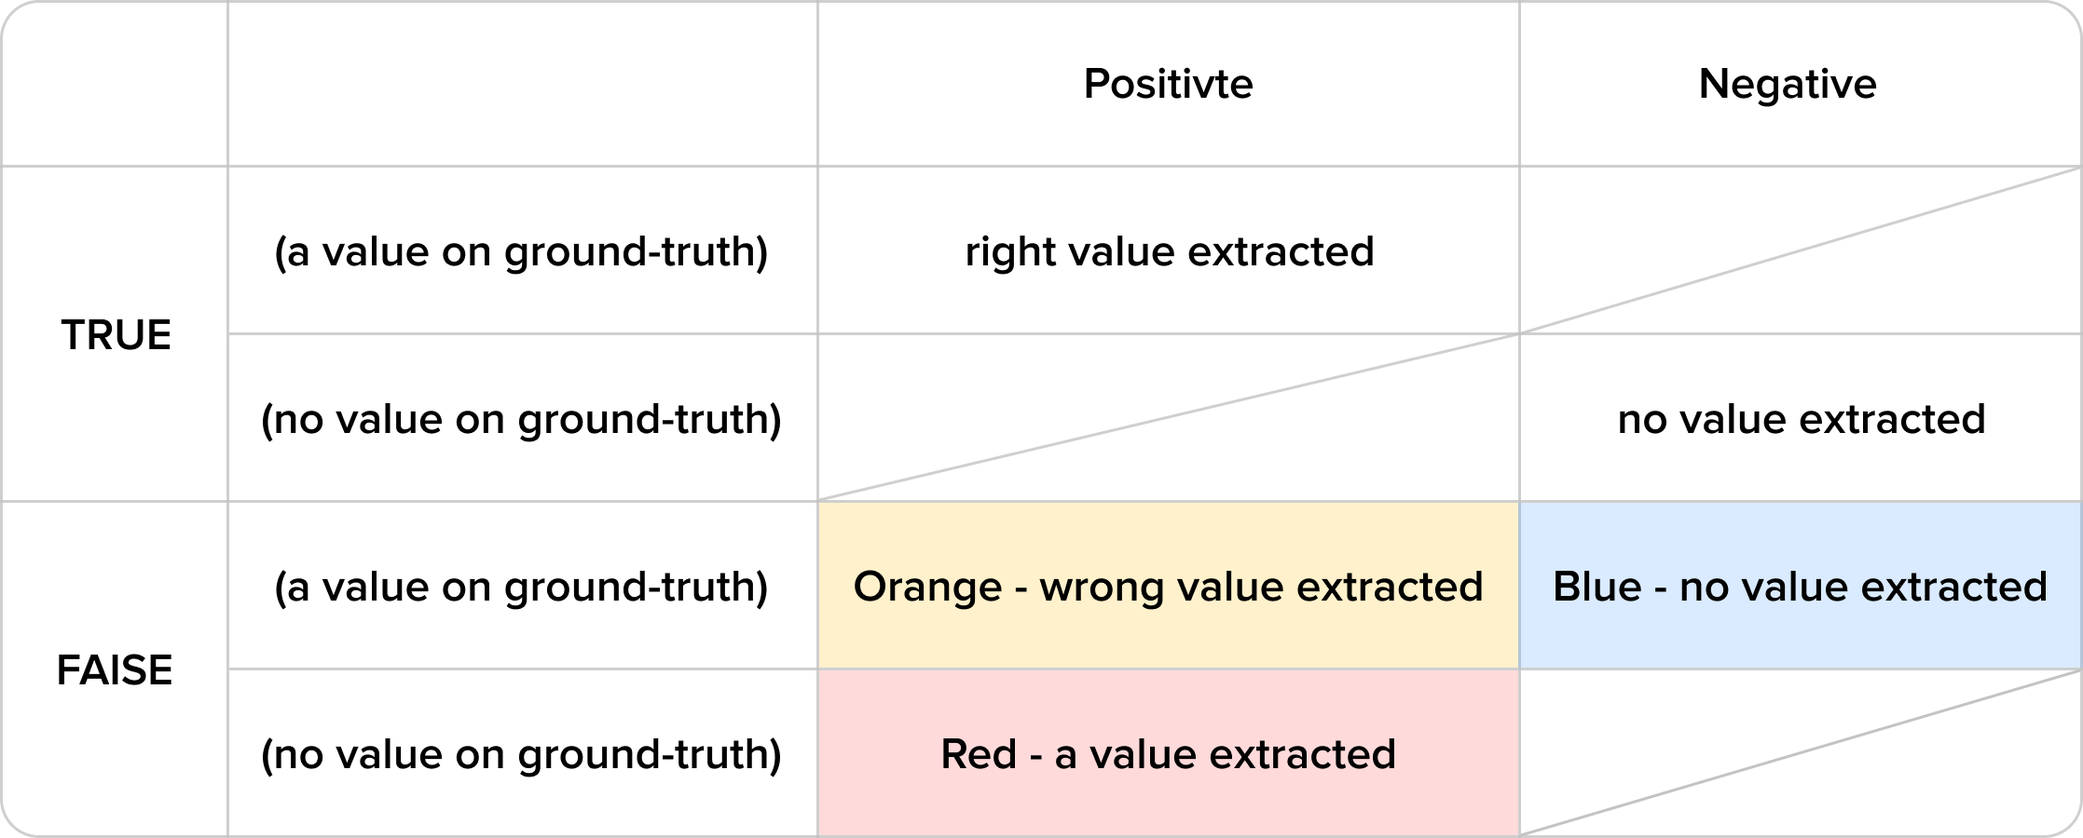
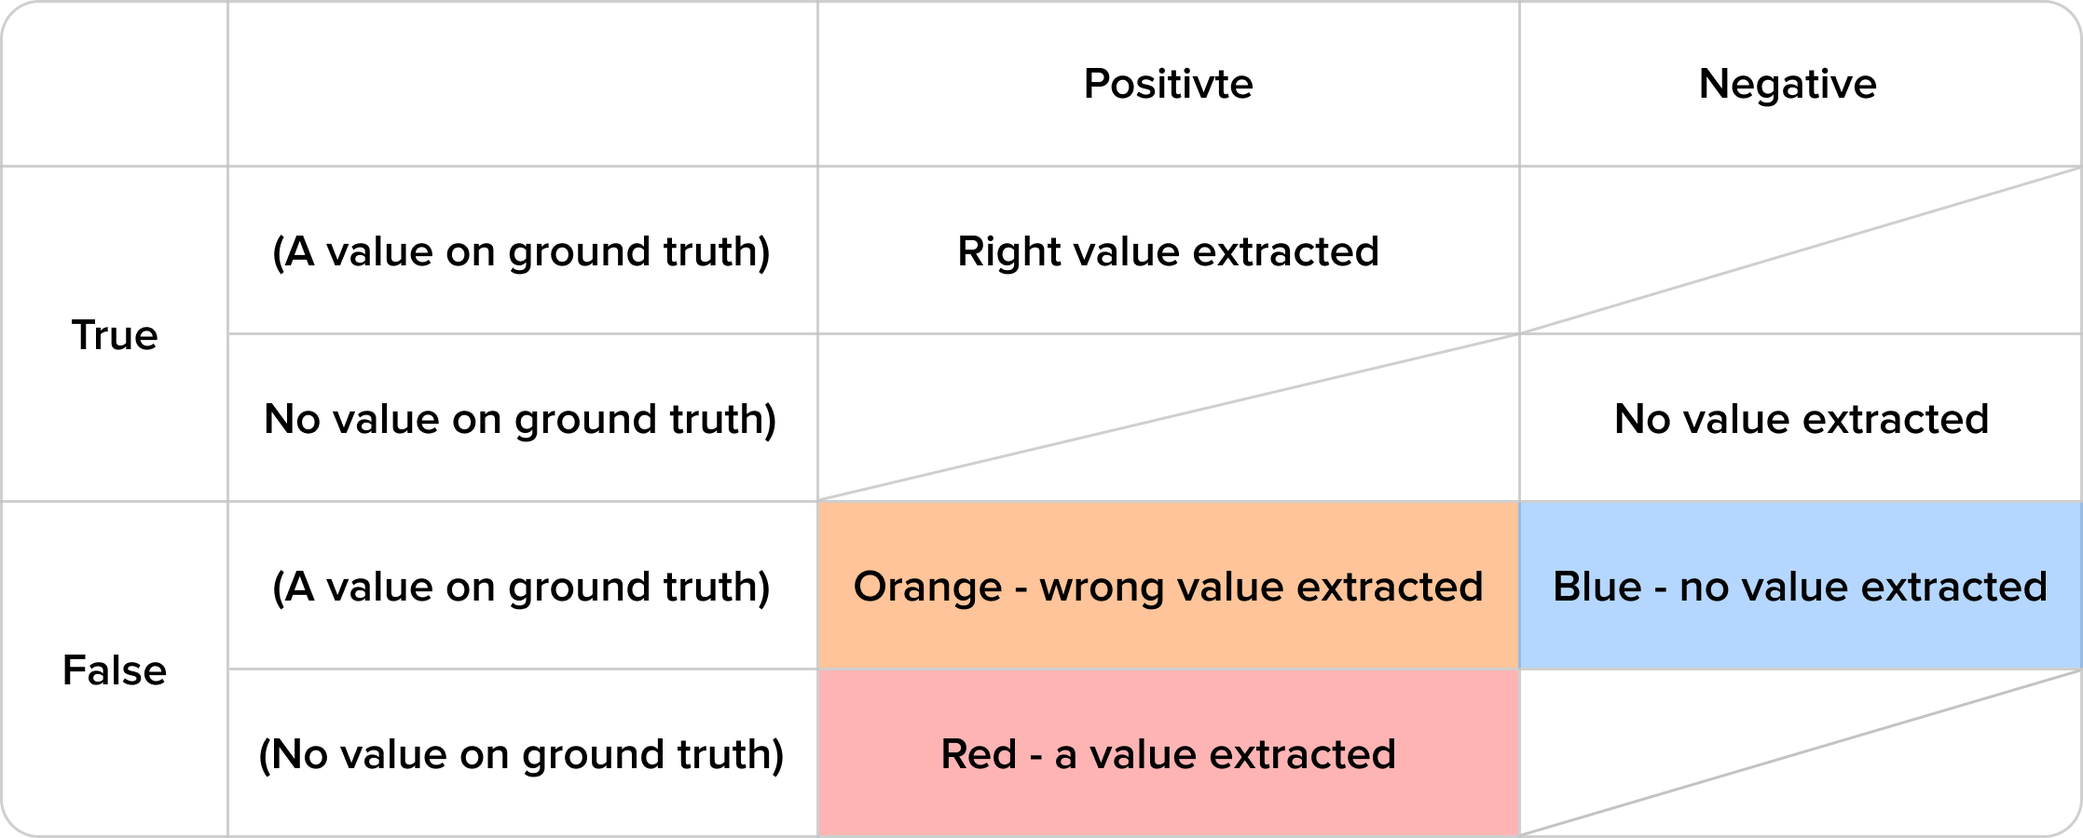
Modify images and contents

diff --git a/articles/Document Information Extraction with Large Language Models/README.md b/articles/Document Information Extraction with Large Language Models/README.md
@@ -17,19 +17,19 @@ Information extraction (IE) is vital for converting raw text into structured dat
 
 ## 2. Processing Workflow
 
-Initially, we divide the unstructured text into segments based on the Large Language Models (LLMs) maximum token length, ensuring some overlap between segments to preserve contextual coherence. Subsequently, we input the text and questions into LLMs and obtain the model's initial output, which we then structure further.
+Initially, we divided the unstructured text into segments based on the Large Language Models (LLMs) maximum token length, ensuring some overlap between segments to preserve contextual coherence. Subsequently, we input the text and questions into LLMs and obtain the model's initial output, which we then structure further.
 
 ![img](structure.png)
 
-During the structuring process, standardizing the raw output ("Result Standardize" in the diagram) becomes necessary. This is crucial because the model sometimes generates answers that are un-parsable. In such cases, we may prompt the model to re-answer the question or pose a follow-up question regarding the provided response.
+During the structuring process, standardizing the raw output (see "Result Standardize" in the Process & Evaluate Each LLM Result section of the diagram) becomes necessary. This is crucial because the model sometimes generates answers that are un-parsable. In such cases, we may prompt the model to re-answer the question or pose a follow-up question regarding the provided response.
 
 It's important to emphasize that we only attempt standardization once. This precaution is taken to prevent potential infinite loops, as standardization could theoretically be repeated endlessly without clear stopping criteria. Therefore, if the model still produces an un-parsable answer after the follow-up question, we discard it outright.
 
 In the "Result Merge" step, we establish how to handle answers for the same question derived from different text segments. If answers are identical across segments, only one is retained. Discrepancies prompt the concatenation of answers from each segment, which are then saved for manual review.
 
-In certain specialized fields of literature, specific properties may not be explicitly stated. Instead, the necessary computation factors are provided. However, due to the limited knowledge reservoir of Large Language Models (LLMs) in niche fields, they may not fully grasp the relationship between a property and its calculation factors. In such cases, we can only inquire about the computation factors and then calculate the actual value for the properties of interest based on specific formulas.
+In certain specialized fields of literature, specific properties may not be explicitly stated. Instead, the necessary computation factors are provided. However, due to the limited knowledge reservoir of LLMs in niche fields, they may not fully grasp the relationship between a property and its calculation factors. In such cases, we can only inquire about the computation factors and then calculate the actual value for the properties of interest based on specific formulas.
 
-Once the extracted data is structured, the next step is to evaluate the results using pre-annotated texts. This allows us to assess the performance of each LLM. For incorrect answers, we conduct further analysis to identify the causes of the error (see the "Error Results Analysis" section for specifics). After analyzing the causes, potential methods such as prompt engineering for more accurate questioning, ground truth correction, and optimization of the LLM Result Processor may be undertaken (details in the "Result Evaluation" section).
+Once the extracted data is structured, the next step is to evaluate the results using pre-annotated texts. This allows us to assess the performance of each LLM. For incorrect answers, we conduct further analysis to identify the causes of the error. Then, potential methods such as prompt engineering for more accurate questioning, ground truth correction, and optimization of the LLM Result Processor would be taken (see the "Error Analysis" section for specifics).
 
 Finally, we employ ensemble methods to select outputs from multiple models, aiming to retain the results with the highest accuracy.
 
@@ -37,7 +37,7 @@ Finally, we employ ensemble methods to select outputs from multiple models, aimi
 
 ### System Prompt
 
-At the outset, the model is configured with system information and performs as a content extractor. Our goal is to fine-tune the settings to ensure the model relies on explicitly stated content in the text and minimizes speculation. When uncertain about extracted results, we prefer a "not mentioned" result extracted by LLMs over potentially incorrect answers. In information extraction, false positives are deemed more detrimental than false negatives.
+At the outset, the model is configured with system information and performs as a content extractor. Our goal is to fine-tune the settings to ensure the model relies on explicitly stated content in the text and minimizes speculation. When uncertain about extracted results, we prefer a "not mentioned" result extracted by LLMs over displaying potentially incorrect answers. In information extraction, especially from academic papers, false positives are deemed more detrimental than false negatives. False positive results means LLM makes up data that does not exist in the original article. This should be avoided as much as possible. In comparison, false negative results (article mentioned data cannot be extracted) are much less harmful.
 
 ### User Prompt
 
@@ -69,35 +69,42 @@ Multi-class properties may have different values across articles, but each artic
 
 Generally, the data density is different in each article. Due to the varying theme of each article, some may mention more properties compared to the other articles. If the article is too sparse, simply guessing every property to "not mentioned" may yield an over $90\\%$ accuracy. However, this result is obviously not our expectation.   
 
-During evaluation, we exclude properties marked as "not mentioned" in both the ground truth and LLM results from statistical analysis. Our focus lies on properties with values presented in the Ground Truth but differing from LLMs’ results.
+During evaluation, we exclude properties marked as "not mentioned" in both the Ground Truth and LLM results from statistical analysis. Our focus lies on properties with values presented in the Ground Truth but differing from LLMs’ results.
 
 ### Confusion Matrix (Customized)
 
-We defined a set of TP/TN/FP/FN to evaluate the results.
+We defined a set of Ture, False, Positive, Negative cases to evaluate the results.
 
-![img](metrics_2.png)
+![img](metrics_1.png)
 
-There is another version of the confusion matrix that may be a little bit easier to understand.
+* Positive: A value is extracted by LLM.
+* Negative: LLM extract nothing.
+* True: The extracted result is a True result. This may include a correct value is extracted by LLM if it is in Ground Truth (TP), and nothing is extracted by LLM if no value in Ground Truth(TN).
+* False: The extracted result is a False result. This includes a wrong value is extracted by LLm if it is in Ground Truth and (FP), and nothing is extracted by LLM but there is a value in Ground Truth (FN).
+
+To optimize the extraction result, it is necessary to dig deeply the TP, TN, FP, FN cases. There is another version of the confusion matrix that shows details.
 
 ![img](metrics_3.png)
+
+The False Positive cases may consist of two different cases. An incorrect value is extracted by LLM and LLM makes up a value that doesn't exist in Ground Truth (this we usually called LLM's hallucination).  
 
 ### Full Evaluation Metrics
 
 <div class="min-width-table">
 
-| **Metrics**  | **Definition**                                  | **Notes**                                                                                                                                                                                                                                                                                                                                                                                       |
-|--------------|-------------------------------------------------|-------------------------------------------------------------------------------------------------------------------------------------------------------------------------------------------------------------------------------------------------------------------------------------------------------------------------------------------------------------------------------------------------|
-| $TP\\%$      | $\frac{TP}{TP+FP+FN}$                                 | Not a standard metric. Since our TN is usually very large, this is used to replace accuracy sometimes.                                                                                                                                                                                                                                                                                          |
-| $FP\\%$      | $\frac{FP}{TP+FP+FN}$                                 | The lower the better. High value means the model tends to have hallucinations. Type 1 red error is worse than type 1 orange, which is worse than type 2 blue error in our extraction. High value of type-2-orange error means model's reasoning is not correct. We differ type-1-red & type-1-orange errors in extract-ref.xlsx, but have not counted them separately to calculate any metrics. |
-| $FN\\%$      | $\frac{FN}{TP+FP+FN}$                                 | The lower the better. High value of type-2-blue error means model is too conservative to make extraction                                                                                                                                                                                                                                                                                        |
-| $TPR/Recall$ | $\frac{TP}{TP+FN}=\frac{TP}{P}$                               | Standard metric. For a given POSITIVE, the probability that can be extracted correctly. If we want the papers to be extracted as much as possible, we need to observe this value closely.                                                                                                                                                                                                       |
-| $FPR$        | $\frac{FP}{FP+TN}=\frac{FP}{N}$                               | For a given NEGATIVE, the probability that turns into an type-1 error. This might be used to reflect hallucination.                                                                                                                                                                                                                                                                             |
-| $TNR$        | $\frac{TN}{FP+TN}=\frac{TN}{N}$                               | $1 - FPR$; for a given NEGATIVE, the probability that it'll be correctly extracted.                                                                                                                                                                                                                                                                                                             |
-| $FNR$        | $\frac{FN}{TP+FN}=\frac{FN}{P}$                               | $1 - Recall$; a given POSITIVE, the probability it'll be a type-2 error.                                                                                                                                                                                                                                                                                                                        |
-| $Accuracy$   | $\frac{TP+TN}{N+P}$                                 | standard metric. Usually very high since our TN is very large compared with TP.                                                                                                                                                                                                                                                                                                                 |
-| $Accuracy*$  | $TP\\%$                                         | not a standard metric                                                                                                                                                                                                                                                                                                                                                                           |
-| $Precision$  | $\frac{TP}{TP+FP}$                                    | standard metric; when there is a POSITIVE extraction, the probability that this extraction is right. From a data consumer perspective, this shall be the most important metric.                                                                                                                                                                                                                 |
-| $F1$         | $\frac{2 \* Recall \* Precision}{Recall+Precision}$ | The standard metric to show the balance between recall and precision.                                                                                                                                                                                                                                                                                                                           |
+| **Metrics**       | **Definition**                                      | **Notes**                                                                                                                                                                                                                                                                                                                                                                                                   |
+|-------------------|-----------------------------------------------------|-------------------------------------------------------------------------------------------------------------------------------------------------------------------------------------------------------------------------------------------------------------------------------------------------------------------------------------------------------------------------------------------------------------|
+| $TP\\%$           | $\frac{TP}{TP+FP+FN}$                               | Not a standard metric. Since our TN is usually very large, this is used to replace accuracy sometimes.                                                                                                                                                                                                                                                                                                      |
+| $FP\\%$           | $\frac{FP}{TP+FP+FN}$                               | The lower the better. High value means the model tends to have hallucinations. Type-I-red error is worse than Type-I-orange, which is worse than Type-II-blue error in our extraction. High value of Type-I-orange error means model's reasoning is not correct. We differ Type-I-red & Type-I-orange errors in result representation sheet, but have not counted them separately to calculate any metrics. |
+| $FN\\%$           | $\frac{FN}{TP+FP+FN}$                               | The lower the better. High value of Type-II blue colored error means that the model is too conservative to make an extraction.                                                                                                                                                                                                                                                                              |
+| $TPR$ or $Recall$ | $\frac{TP}{TP+FN}=\frac{TP}{P}$                     | Standard metric. This value represents the probability that a value can be extracted correctly by LLM. If we want the papers to be extracted as much as possible, we need to observe this value closely.                                                                                                                                                                                                    |
+| $FPR$             | $\frac{FP}{FP+TN}=\frac{FP}{N}$                     | False Positive Rate. For a set of Negative cases, this value indicates the probability of the extracted results are Type-I errors. This might be used to reflect the hallucination of LLMs.                                                                                                                                                                                                                 |
+| $TNR$             | $\frac{TN}{FP+TN}=\frac{TN}{N}$                     | $1 - FPR$. For a set of Negative cases, this value shows the probability of the extracted values are correct extractions.                                                                                                                                                                                                                                                                                   |
+| $FNR$             | $\frac{FN}{TP+FN}=\frac{FN}{P}$                     | $1 - Recall$. For a set of Positive cases, this value shows the probability of the extracted results are type-II errors.                                                                                                                                                                                                                                                                                    |
+| $Accuracy$        | $\frac{TP+TN}{N+P}$                                 | Standard metric. Usually very high since our TN is very large compared with TP.                                                                                                                                                                                                                                                                                                                             |
+| $Accuracy*$       | $TP\\%$                                             | Not a standard metric                                                                                                                                                                                                                                                                                                                                                                                       |
+| $Precision$       | $\frac{TP}{TP+FP}$                                  | Standard metric. For a set of Positive cases, this value indicates the probability of the extracted results are correct. From a data consumer perspective, this shall be the most important metric.                                                                                                                                                                                                         |
+| $F1$              | $\frac{2 \* Recall \* Precision}{Recall+Precision}$ | The standard metric to show the balance between recall and precision.                                                                                                                                                                                                                                                                                                                                       |
 
 </div>
 
@@ -106,7 +113,7 @@ There is another version of the confusion matrix that may be a little bit easier
 
 ### Misunderstanding & Terminology Confusion
 
-LLMs may occasionally struggle to distinguish between terms like "Injection" and "Re-injection" though they can provide correct answers when queried directly (ask LLM difference between "Injection" and "Re-injection"). In practice, when an article mentions "Injection" , the LLM may misinterpret it as "Re-injection" , potentially overlooking distinctions crucial to our task. To mitigate such errors without extensive model training, we optimize prompts by adding constraints or explanations. However, verbose prompts often yield unsatisfactory results, creating a "Whack-A-Mole" scenario.
+LLMs may occasionally struggle to distinguish between terms like "Injection" and "Re-injection" though they can provide correct answers when queried directly (ask LLM difference between "Injection" and "Re-injection"). In practice, when an article mentions "Injection", the LLM may misinterpret it as "Re-injection" , potentially overlooking distinctions crucial to our task. To mitigate such errors without extensive model training, we optimize prompts by adding constraints or explanations. However, verbose prompts often yield unsatisfactory results, creating a "Whack-A-Mole" scenario.
 
 ### Unit Conversion Issues
 
@@ -124,7 +131,11 @@ The Ground Truth theoretically is always 100% correct. The annotation results la
 
 ## 6. Performance
 
-Despite encountering challenges, we've achieved significant milestones. For annotated documents, we achieved an over $90\\%$ extraction accuracy for all properties and an over $70\\%$ accuracy excluding "not mentioned" properties in both Ground Truth and LLM results. We observed varying extraction accuracy among different LLM models. GPT-4 stands out, surpassing even GPT-4 Turbo, possibly due to its better handling of lengthy text, leading to a more detailed understanding. GPT-4 also excels in adhering to output format constraints. Claude2 demonstrates comparable understanding to GPT-4 and occasionally provides overlooked details. This prompted us to introduce the ensemble approach. Conversely, GPT3-Turbo and LLaMA2 showed a weaker performance, often misunderstanding prompts and disregarding result format requirements. Mistral AI's performance falls between GPT-4 and GPT-3 Turbo.
+Despite encountering challenges, we've achieved significant milestones. For annotated documents, we achieved an over $90\\%$ extraction accuracy for all properties and an over $70\\%$ accuracy excluding "not mentioned" properties in both Ground Truth and LLM results. We observed varying extraction accuracy among different LLM models. 
+* GPT-4 stands out, surpassing even GPT-4 Turbo, possibly due to its better handling of lengthy text, leading to a more detailed understanding. GPT-4 also excels in adhering to output format constraints. 
+* Claude2 demonstrates comparable understanding to GPT-4 and occasionally provides overlooked details. This prompted us to introduce the ensemble approach. 
+* Conversely, GPT3-Turbo and LLaMA2 showed a weaker performance, often misunderstanding prompts and disregarding result format requirements. 
+* Mistral AI's performance falls between GPT-4 and GPT-3 Turbo.
 
 ## 7. Challenges
 
